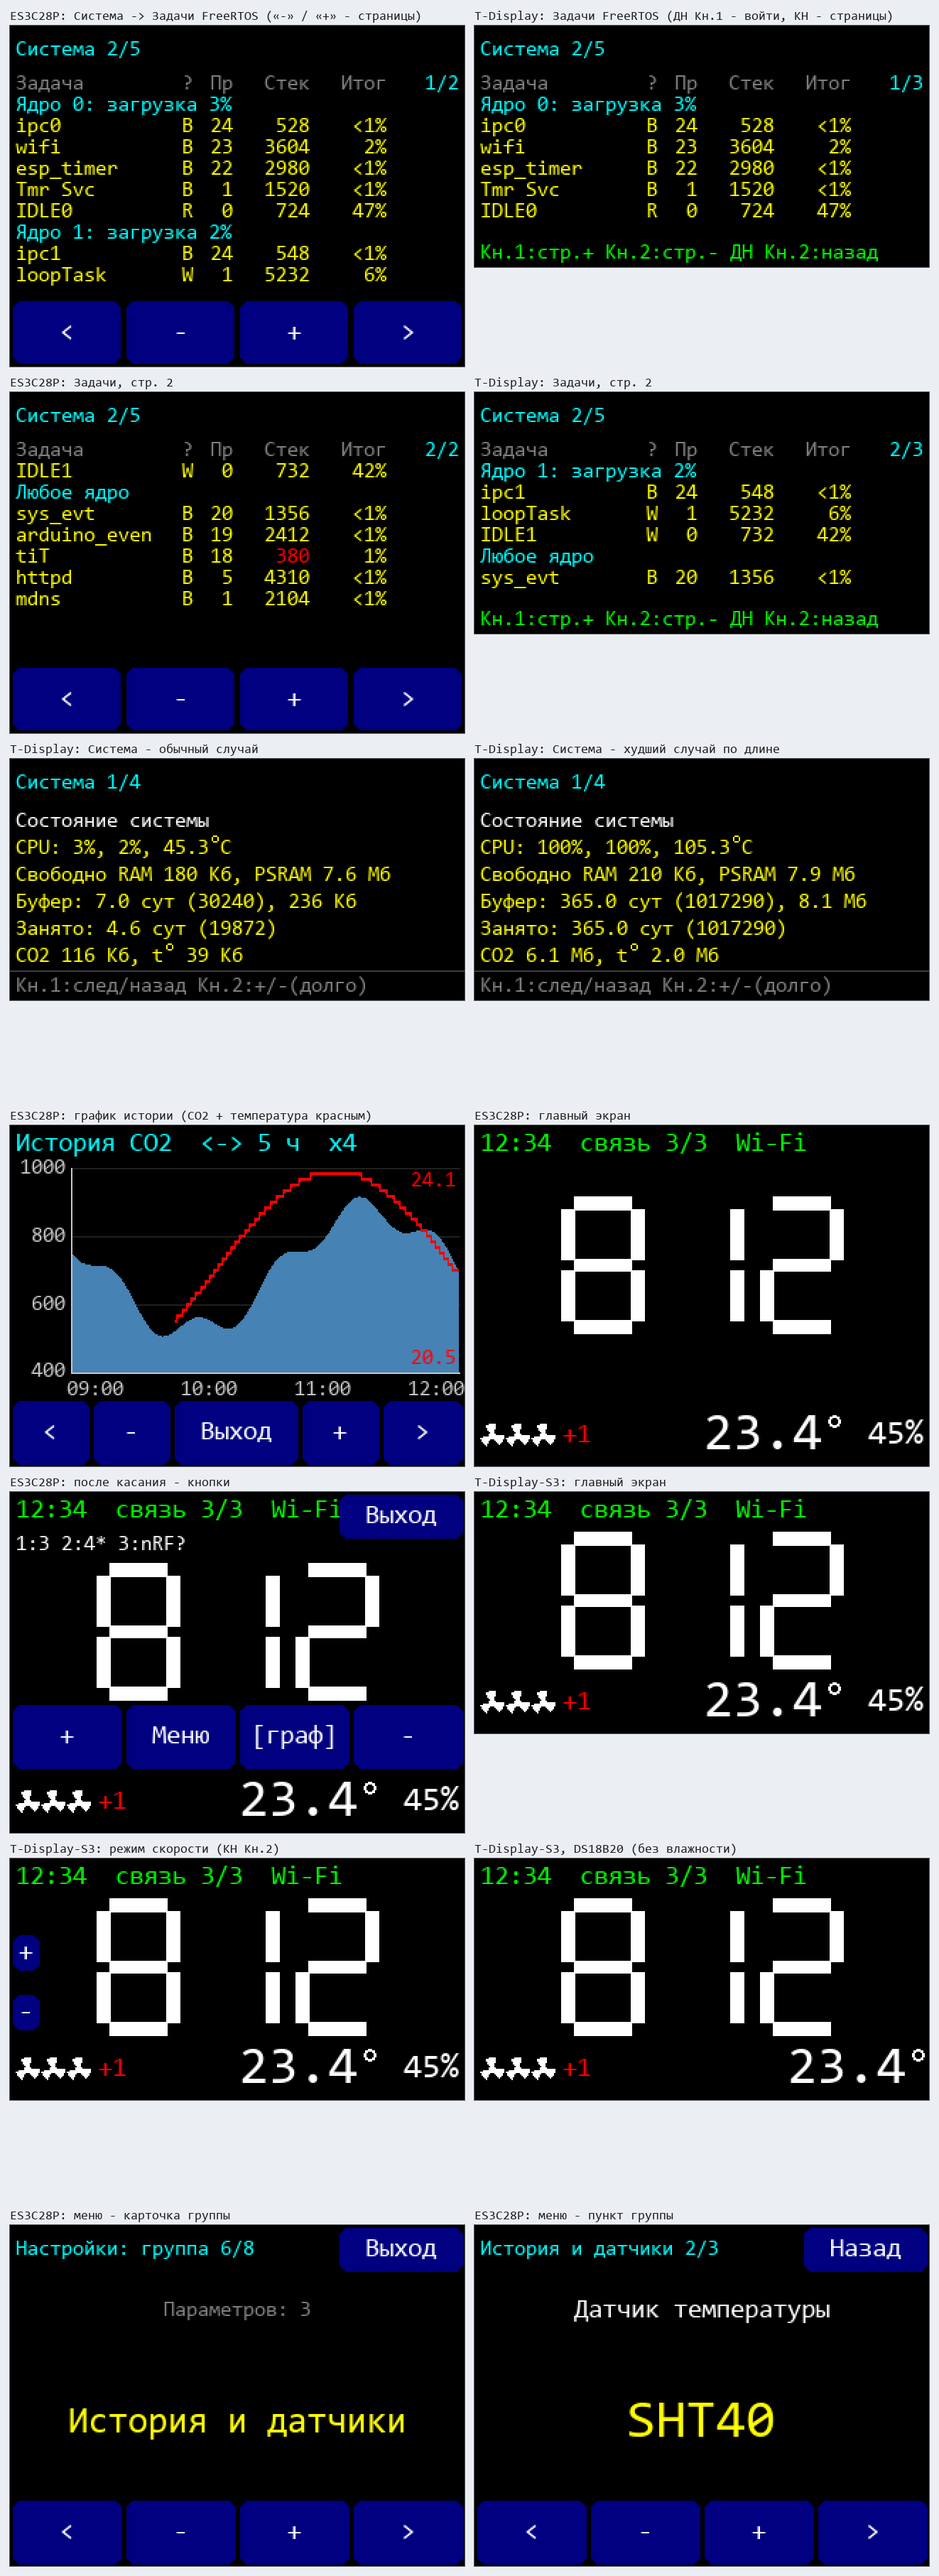
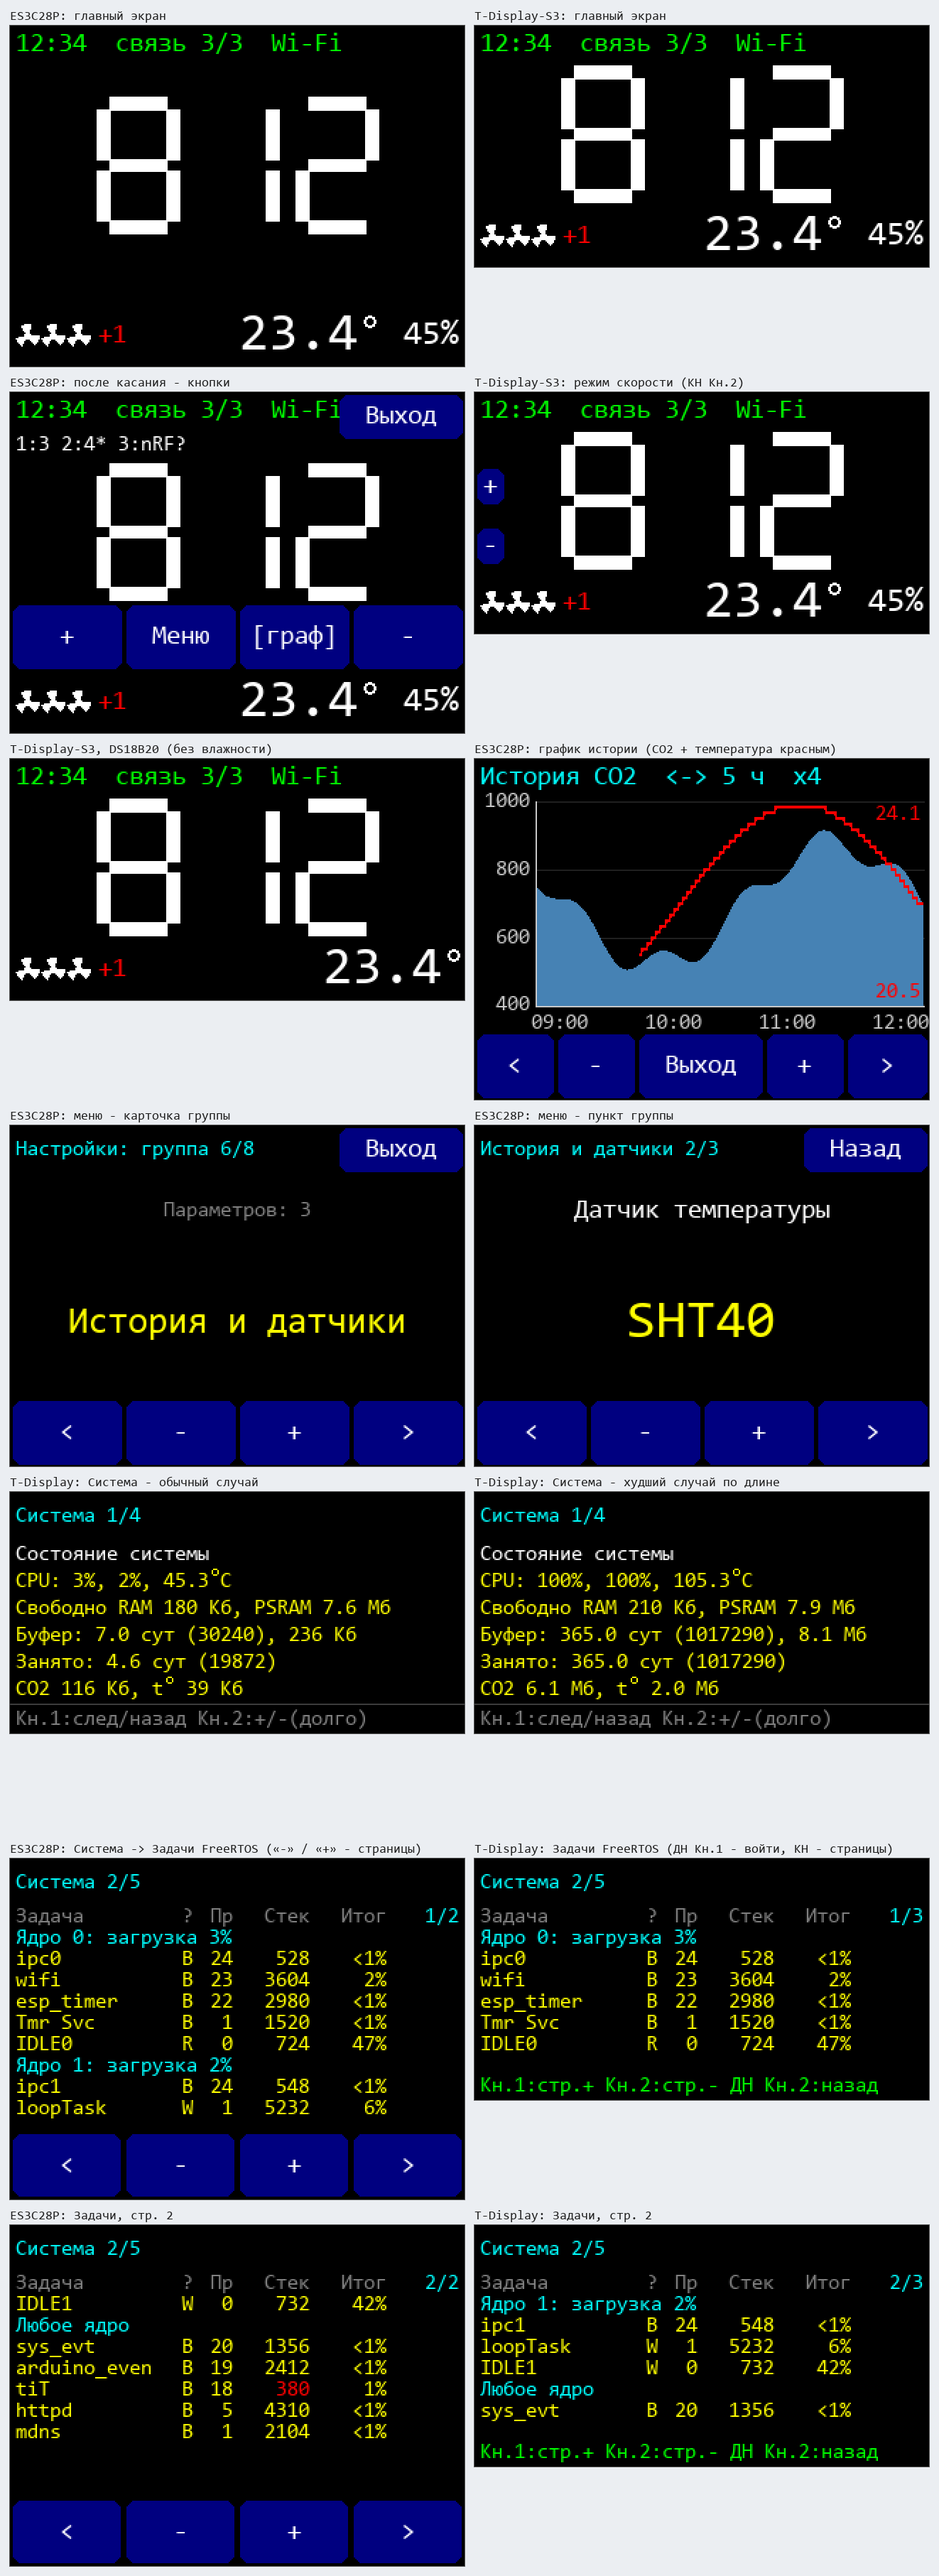
- readme

diff --git a/Scripts/ui_mockup.py b/Scripts/ui_mockup.py
@@ -351,22 +351,24 @@ def tasks_card(w, h, title, page):
 
 
 def main():
-    shots = [tasks_card(320, 240, "ES3C28P: Система -> Задачи FreeRTOS («-» / «+» - страницы)", 0),
-             tasks_card(320, 170, "T-Display: Задачи FreeRTOS (ДН Кн.1 - войти, КН - страницы)", 0),
-             tasks_card(320, 240, "ES3C28P: Задачи, стр. 2", 1),
-             tasks_card(320, 170, "T-Display: Задачи, стр. 2", 1),sys_card_td(["Состояние системы", "CPU: 3%, 2%, 45.3`C", "Свободно RAM 180 Кб, PSRAM 7.6 Мб",
+    # порядок на листе (2 в ряд): главные экраны, график истории, меню, карточки «Система», задачи FreeRTOS
+    shots = [main_screen(320, 240, "ES3C28P: главный экран", ARGS.temp, ARGS.hum),
+             main_screen(320, 170, "T-Display-S3: главный экран", ARGS.temp, ARGS.hum),
+             main_screen(320, 240, "ES3C28P: после касания - кнопки", ARGS.temp, ARGS.hum, es_buttons=True),
+             main_screen(320, 170, "T-Display-S3: режим скорости (КН Кн.2)", ARGS.temp, ARGS.hum, td_adjust=True),
+             main_screen(320, 170, "T-Display-S3, DS18B20 (без влажности)", ARGS.temp, ""),
+             history_chart(320, 240),
+             menu_group(320, 240), menu_item(320, 240),
+             sys_card_td(["Состояние системы", "CPU: 3%, 2%, 45.3`C", "Свободно RAM 180 Кб, PSRAM 7.6 Мб",
                           "Буфер: 7.0 сут (30240), 236 Кб", "Занято: 4.6 сут (19872)", "CO2 116 Кб, t` 39 Кб"],
                          "T-Display: Система - обычный случай"),
              sys_card_td(["Состояние системы", "CPU: 100%, 100%, 105.3`C", "Свободно RAM 210 Кб, PSRAM 7.9 Мб",
                           "Буфер: 365.0 сут (1017290), 8.1 Мб", "Занято: 365.0 сут (1017290)", "CO2 6.1 Мб, t` 2.0 Мб"],
                          "T-Display: Система - худший случай по длине"),
-             history_chart(320, 240),
-             main_screen(320, 240, "ES3C28P: главный экран", ARGS.temp, ARGS.hum),
-             main_screen(320, 240, "ES3C28P: после касания - кнопки", ARGS.temp, ARGS.hum, es_buttons=True),
-             main_screen(320, 170, "T-Display-S3: главный экран", ARGS.temp, ARGS.hum),
-             main_screen(320, 170, "T-Display-S3: режим скорости (КН Кн.2)", ARGS.temp, ARGS.hum, td_adjust=True),
-             main_screen(320, 170, "T-Display-S3, DS18B20 (без влажности)", ARGS.temp, ""),
-             menu_group(320, 240), menu_item(320, 240)]
+             tasks_card(320, 240, "ES3C28P: Система -> Задачи FreeRTOS («-» / «+» - страницы)", 0),
+             tasks_card(320, 170, "T-Display: Задачи FreeRTOS (ДН Кн.1 - войти, КН - страницы)", 0),
+             tasks_card(320, 240, "ES3C28P: Задачи, стр. 2", 1),
+             tasks_card(320, 170, "T-Display: Задачи, стр. 2", 1)]
     pad, cap = 14, 22
     cols = 2
     cw, ch = 320 * SCALE, 240 * SCALE
